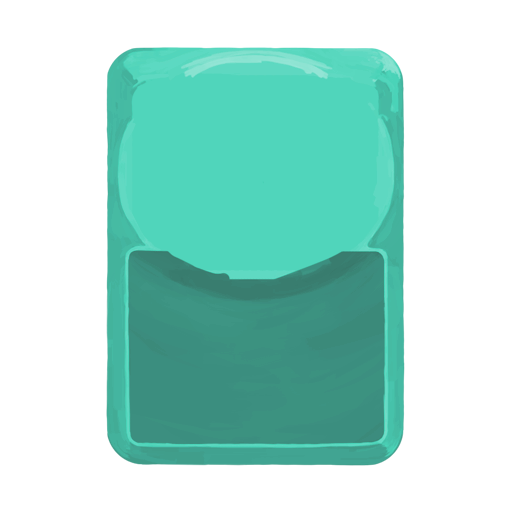
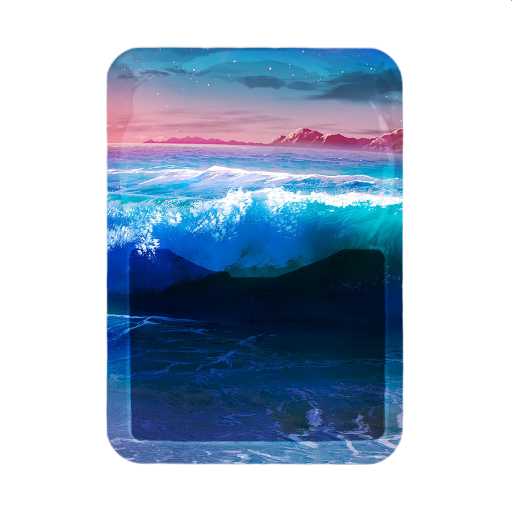
Thanks Alison for AWESOME CARDBACK

diff --git a/src/main/java/theFishing/actions/SetSailAction.java b/src/main/java/theFishing/actions/SetSailAction.java
@@ -1,0 +1,83 @@
+package theFishing.actions;
+
+import com.badlogic.gdx.utils.Array;
+import com.megacrit.cardcrawl.actions.AbstractGameAction;
+import com.megacrit.cardcrawl.actions.common.DrawCardAction;
+import com.megacrit.cardcrawl.cards.AbstractCard;
+import com.megacrit.cardcrawl.cards.AbstractCard.CardType;
+import com.megacrit.cardcrawl.cards.CardGroup;
+import com.megacrit.cardcrawl.cards.CardGroup.CardGroupType;
+import com.megacrit.cardcrawl.characters.AbstractPlayer;
+import com.megacrit.cardcrawl.dungeons.AbstractDungeon;
+import theFishing.patch.FoilPatches;
+
+public class SetSailAction extends AbstractGameAction {
+    private AbstractPlayer p;
+
+    public SetSailAction() {
+        this.p = AbstractDungeon.player;
+        this.actionType = ActionType.CARD_MANIPULATION;
+    }
+
+    public void update() {
+        isDone = true;
+        if (this.p.drawPile.isEmpty()) {
+            return;
+        }
+
+        Array<CardGroup> groups = new Array();
+        for (int i = 0; i < 14; i++)
+            groups.add(new CardGroup(CardGroupType.UNSPECIFIED));
+        for (AbstractCard q : AbstractDungeon.player.drawPile.group) {
+            if (q.type == CardType.ATTACK) {
+                if (q.rarity == AbstractCard.CardRarity.RARE && FoilPatches.isFoil(q)) {
+                    groups.get(0).addToTop(q);
+                } else if (q.rarity == AbstractCard.CardRarity.RARE) {
+                    groups.get(1).addToTop(q);
+                } else if (q.rarity == AbstractCard.CardRarity.UNCOMMON && FoilPatches.isFoil(q)) {
+                    groups.get(2).addToTop(q);
+                } else if (q.rarity == AbstractCard.CardRarity.UNCOMMON) {
+                    groups.get(3).addToTop(q);
+                } else if (q.rarity == AbstractCard.CardRarity.COMMON && FoilPatches.isFoil(q) && q.type != CardType.STATUS) {
+                    groups.get(4).addToTop(q);
+                } else if (q.rarity == AbstractCard.CardRarity.COMMON && q.type != CardType.STATUS) {
+                    groups.get(5).addToTop(q);
+                } else if (q.rarity == AbstractCard.CardRarity.BASIC && FoilPatches.isFoil(q)) {
+                    groups.get(6).addToTop(q);
+                } else if (q.rarity == AbstractCard.CardRarity.BASIC) {
+                    groups.get(7).addToTop(q);
+                } else if (q.rarity == AbstractCard.CardRarity.SPECIAL && FoilPatches.isFoil(q)) {
+                    groups.get(8).addToTop(q);
+                } else if (q.rarity == AbstractCard.CardRarity.SPECIAL) {
+                    groups.get(9).addToTop(q);
+                } else if (q.rarity == AbstractCard.CardRarity.CURSE && FoilPatches.isFoil(q)) {
+                    groups.get(10).addToTop(q);
+                } else if (q.rarity == AbstractCard.CardRarity.CURSE) {
+                    groups.get(11).addToTop(q);
+                } else if (q.type == CardType.STATUS && FoilPatches.isFoil(q)) {
+                    groups.get(12).addToTop(q);
+                } else {
+                    groups.get(13).addToTop(q);
+                }
+            }
+        }
+
+        int group = 0;
+
+        for (int i = 0; i < this.amount; ++i) {
+            while (group < 14 && groups.get(group).isEmpty())
+                group++;
+            if (group < 14) {
+                groups.get(group).shuffle();
+                AbstractCard card = groups.get(group).getBottomCard();
+                groups.get(group).removeCard(card);
+                p.drawPile.removeCard(card);
+                p.drawPile.addToTop(card);
+                card.freeToPlayOnce = true;
+                addToTop(new DrawCardAction(1));
+            }
+        }
+
+        this.isDone = true;
+    }
+}

diff --git a/src/main/java/theFishing/patch/FoilPatches.java b/src/main/java/theFishing/patch/FoilPatches.java
@@ -10,6 +10,8 @@ import com.evacipated.cardcrawl.modthespire.lib.SpirePatch2;
 import com.megacrit.cardcrawl.cards.AbstractCard;
 import com.megacrit.cardcrawl.dungeons.AbstractDungeon;
 import com.megacrit.cardcrawl.screens.SingleCardViewPopup;
+import theFishing.TheFishing;
+import theFishing.cards.AbstractFishingCard;
 
 import java.util.ArrayList;
 
@@ -33,6 +35,15 @@ public class FoilPatches {
 
     public static void makeFoil(AbstractCard card) {
         FoilField.foil.set(card, true);
+        if (card.color == TheFishing.Enums.FISHING_COLOR && card instanceof AbstractFishingCard) {
+            switch (card.type) {
+                case ATTACK:
+                case SKILL:
+                case POWER:
+                    ((AbstractFishingCard) card).setBackgroundTexture("fishingResources/images/512/" + card.type.toString().toLowerCase() + "_foil.png", "fishingResources/images/1024/" + card.type.toString().toLowerCase() + "_foil.png");
+                    break;
+            }
+        }
     }
 
     @SpirePatch(
@@ -135,7 +146,7 @@ public class FoilPatches {
         private static Color oldColor;
 
         public static void Prefix(AbstractCard __instance, SpriteBatch sb, float x, float y) {
-            if (isFoil(__instance)) {
+            if (isFoil(__instance) && __instance.color != TheFishing.Enums.FISHING_COLOR) {
                 oldShader = sb.getShader();
                 sb.setShader(shade);
                 oldColor = ReflectionHacks.getPrivate(__instance, AbstractCard.class, "renderColor");
@@ -144,7 +155,7 @@ public class FoilPatches {
         }
 
         public static void Postfix(AbstractCard __instance, SpriteBatch sb, float x, float y) {
-            if (isFoil(__instance)) {
+            if (isFoil(__instance) && __instance.color != TheFishing.Enums.FISHING_COLOR) {
                 sb.setShader(oldShader);
                 ReflectionHacks.setPrivate(__instance, AbstractCard.class, "renderColor", oldColor);
             }
@@ -186,7 +197,7 @@ public class FoilPatches {
 
         public static void Prefix(SingleCardViewPopup __instance, SpriteBatch sb) {
             AbstractCard card = ReflectionHacks.getPrivate(__instance, SingleCardViewPopup.class, "card");
-            if (isFoil(card)) {
+            if (isFoil(card) && card.color != TheFishing.Enums.FISHING_COLOR) {
                 oldShader = sb.getShader();
                 sb.setShader(shade);
                 oldColor = sb.getColor();
@@ -196,7 +207,7 @@ public class FoilPatches {
 
         public static void Postfix(SingleCardViewPopup __instance, SpriteBatch sb) {
             AbstractCard card = ReflectionHacks.getPrivate(__instance, SingleCardViewPopup.class, "card");
-            if (isFoil(card)) {
+            if (isFoil(card) && card.color != TheFishing.Enums.FISHING_COLOR) {
                 sb.setShader(oldShader);
                 sb.setColor(oldColor);
             }

diff --git a/src/main/java/theFishing/cards/SetSail.java b/src/main/java/theFishing/cards/SetSail.java
@@ -1,32 +1,38 @@
 package theFishing.cards;
 
-import com.megacrit.cardcrawl.actions.animations.VFXAction;
-import com.megacrit.cardcrawl.actions.common.DrawCardAction;
-import com.megacrit.cardcrawl.actions.common.PutOnDeckAction;
+import com.megacrit.cardcrawl.actions.AbstractGameAction;
 import com.megacrit.cardcrawl.characters.AbstractPlayer;
-import com.megacrit.cardcrawl.core.Settings;
+import com.megacrit.cardcrawl.dungeons.AbstractDungeon;
 import com.megacrit.cardcrawl.monsters.AbstractMonster;
-import com.megacrit.cardcrawl.vfx.combat.ShockWaveEffect;
+import com.megacrit.cardcrawl.powers.VulnerablePower;
+import theFishing.actions.SetSailAction;
 
 import static theFishing.FishingMod.makeID;
+import static theFishing.util.Wiz.applyToEnemyTop;
+import static theFishing.util.Wiz.atb;
 
 public class SetSail extends AbstractFishingCard {
     public final static String ID = makeID("SetSail");
     // intellij stuff skill, self, common, , , 4, , , 
 
     public SetSail() {
-        super(ID, 0, CardType.SKILL, CardRarity.COMMON, CardTarget.SELF);
+        super(ID, 1, CardType.SKILL, CardRarity.COMMON, CardTarget.SELF);
         baseMagicNumber = magicNumber = 1;
-        exhaust = true;
     }
 
     public void use(AbstractPlayer p, AbstractMonster m) {
-        this.addToBot(new DrawCardAction(p, this.magicNumber));
-        this.addToBot(new PutOnDeckAction(p, p, 1, false));
+        atb(new SetSailAction());
+        atb(new AbstractGameAction() {
+            @Override
+            public void update() {
+                isDone = true;
+                AbstractMonster q = AbstractDungeon.getCurrRoom().monsters.getRandomMonster(true);
+                applyToEnemyTop(q, new VulnerablePower(q, magicNumber, false));
+            }
+        });
     }
 
     public void upp() {
-        exhaust = false;
-        uDesc();
+        upgradeMagicNumber(1);
     }
 }

diff --git a/src/main/java/theFishing/cards/MaybeLater.java b/src/main/java/theFishing/cards/MaybeLater.java
@@ -1,0 +1,41 @@
+package theFishing.cards;
+
+import com.megacrit.cardcrawl.actions.AbstractGameAction;
+import com.megacrit.cardcrawl.actions.common.GainBlockAction;
+import com.megacrit.cardcrawl.actions.common.PutOnDeckAction;
+import com.megacrit.cardcrawl.characters.AbstractPlayer;
+import com.megacrit.cardcrawl.monsters.AbstractMonster;
+
+import static theFishing.FishingMod.makeID;
+import static theFishing.util.Wiz.atb;
+import static theFishing.util.Wiz.att;
+
+public class MaybeLater extends AbstractFishingCard {
+    public final static String ID = makeID("MaybeLater");
+    // intellij stuff attack, self_and_enemy, common, 7, 2, 4, 2, , 
+
+    public MaybeLater() {
+        super(ID, 1, CardType.ATTACK, CardRarity.COMMON, CardTarget.ENEMY);
+        baseDamage = 7;
+        baseBlock = 4;
+    }
+
+    public void use(AbstractPlayer p, AbstractMonster m) {
+        dmg(m, AbstractGameAction.AttackEffect.SLASH_DIAGONAL);
+        atb(new AbstractGameAction() {
+            @Override
+            public void update() {
+                isDone = true;
+                if (!p.hand.isEmpty()) {
+                    att(new GainBlockAction(p, block));
+                }
+                att(new PutOnDeckAction(p, p, 1, false));
+            }
+        });
+    }
+
+    public void upp() {
+        upgradeDamage(2);
+        upgradeBlock(2);
+    }
+}

diff --git a/src/main/java/theFishing/cards/CrystallineConfluence.java b/src/main/java/theFishing/cards/CrystallineConfluence.java
@@ -3,12 +3,14 @@ package theFishing.cards;
 import com.megacrit.cardcrawl.actions.AbstractGameAction;
 import com.megacrit.cardcrawl.actions.common.AttackDamageRandomEnemyAction;
 import com.megacrit.cardcrawl.actions.common.MakeTempCardInDrawPileAction;
+import com.megacrit.cardcrawl.cards.AbstractCard;
 import com.megacrit.cardcrawl.characters.AbstractPlayer;
 import com.megacrit.cardcrawl.monsters.AbstractMonster;
 import theFishing.actions.EasyXCostAction;
 import theFishing.cards.AbstractFishingCard;
 
 import static theFishing.FishingMod.makeID;
+import static theFishing.patch.FoilPatches.makeFoil;
 import static theFishing.util.Wiz.*;
 
 public class CrystallineConfluence extends AbstractFishingCard {
@@ -23,7 +25,9 @@ public class CrystallineConfluence extends AbstractFishingCard {
 
     public void use(AbstractPlayer p, AbstractMonster m) {
         atb(new EasyXCostAction(this, (effect, params) -> {
-            att(new MakeTempCardInDrawPileAction(new StarShard(), effect + params[0], true, false));
+            AbstractCard q = new StarShard();
+            makeFoil(q);
+            att(new MakeTempCardInDrawPileAction(q, effect + params[0], true, false));
             return true;
         }, magicNumber));
     }

diff --git a/src/main/java/theFishing/cards/AbstractFishingCard.java b/src/main/java/theFishing/cards/AbstractFishingCard.java
@@ -1,5 +1,6 @@
 package theFishing.cards;
 
+import basemod.BaseMod;
 import basemod.abstracts.CustomCard;
 import basemod.helpers.TooltipInfo;
 import com.badlogic.gdx.Gdx;
@@ -18,12 +19,10 @@ import theFishing.FishingMod;
 import theFishing.TheFishing;
 import theFishing.patch.FoilPatches;
 
-import java.util.ArrayList;
 import java.util.Arrays;
 import java.util.List;
 
-import static theFishing.FishingMod.makeImagePath;
-import static theFishing.FishingMod.modID;
+import static theFishing.FishingMod.*;
 import static theFishing.util.Wiz.atb;
 import static theFishing.util.Wiz.att;
 
@@ -195,8 +194,8 @@ public abstract class AbstractFishingCard extends CustomCard {
 
     @Override
     public List<TooltipInfo> getCustomTooltips() {
-        if (FoilPatches.isFoil(this)) {
-            return Arrays.asList(new TooltipInfo("Foil", "Approx. #b1 in #b" + FoilPatches.FOIL_CHANCE + " cards are Foil. Maximum #b1 per card reward. Shiny!"));
+        if (FoilPatches.isFoil(this) && !this.rawDescription.contains(makeID("Foil"))) {
+            return Arrays.asList(new TooltipInfo(BaseMod.getKeywordTitle(makeID("foil")), BaseMod.getKeywordDescription(makeID("foil"))));
         }
         return null;
     }

diff --git a/src/main/java/theFishing/cards/PlantFlag.java b/src/main/java/theFishing/cards/PlantFlag.java
@@ -17,7 +17,6 @@ public class PlantFlag extends AbstractFishingCard {
     public PlantFlag() {
         super(ID, 1, CardType.SKILL, CardRarity.COMMON, CardTarget.SELF);
         cardsToPreview = new Flag();
-
         baseBlock = 3;
     }
 
